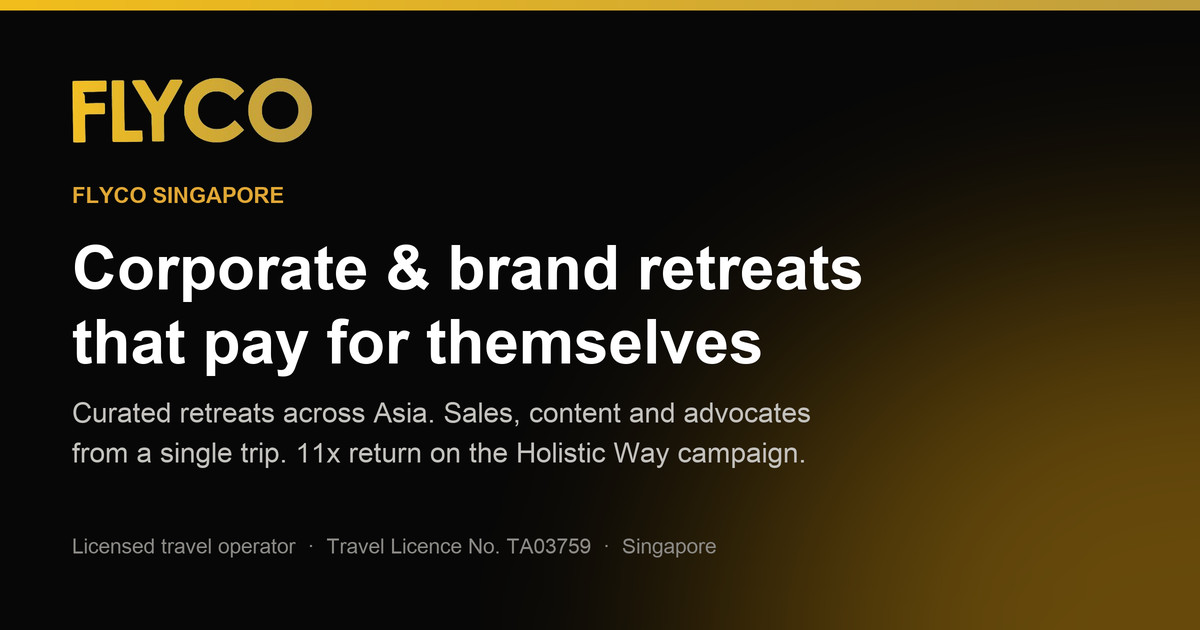
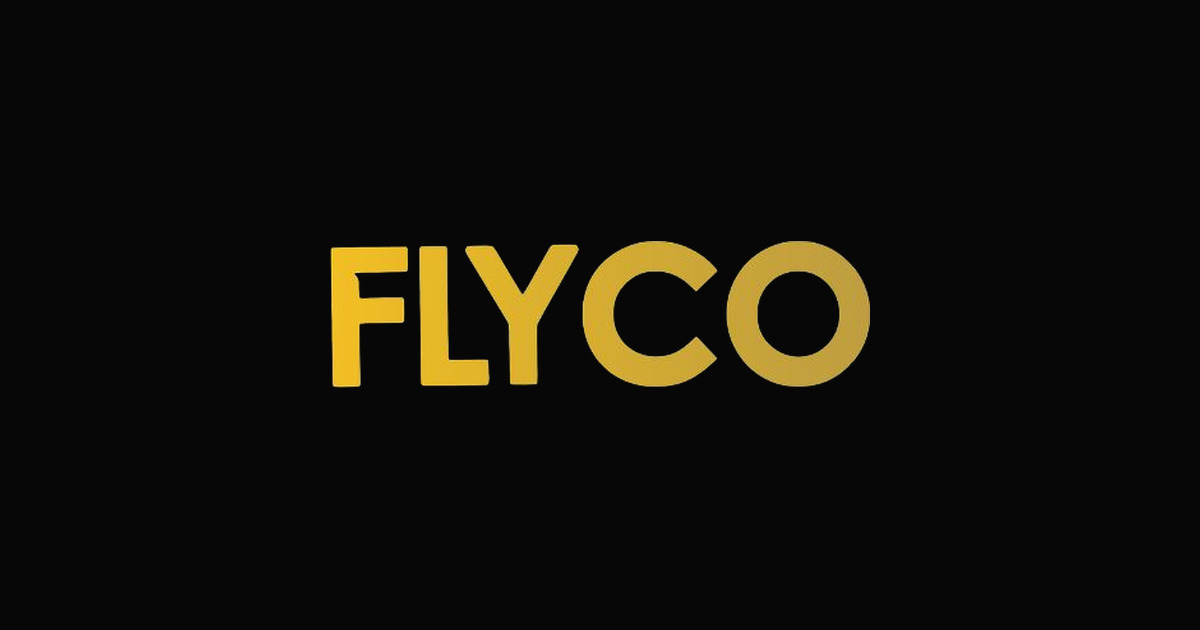
Simplify OG image to the FLYCO wordmark on black

diff --git a/index.html b/index.html
@@ -31,14 +31,14 @@
 <meta property="og:image:type" content="image/jpeg">
 <meta property="og:image:width" content="1200">
 <meta property="og:image:height" content="630">
-<meta property="og:image:alt" content="FLYCO — corporate and brand retreats that pay for themselves.">
+<meta property="og:image:alt" content="FLYCO">
 
 <!-- Twitter / X -->
 <meta name="twitter:card" content="summary_large_image">
 <meta name="twitter:title" content="Corporate &amp; Brand Retreats | FLYCO Singapore">
 <meta name="twitter:description" content="Curated 3 to 5 day brand retreats across Asia. Sales, content and advocates from a single trip. Request a scoped proposal.">
 <meta name="twitter:image" content="https://flyco.edastra.in/assets/og-image.jpg">
-<meta name="twitter:image:alt" content="FLYCO — corporate and brand retreats that pay for themselves.">
+<meta name="twitter:image:alt" content="FLYCO">
 
 <script type="application/ld+json">
 {
